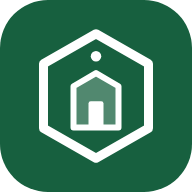
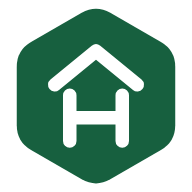
feat(brand): a hexagon mark with an H under a roof, everywhere the brand shows
Sean's new logo: the rounded square is replaced by a green hexagon - the
same cell the hive in the product film is built from - with a minimal H
under a roof. favicon.svg is the one source.

- The tab icon is the hexagon on transparent.
- render-app-icons.mjs now renders every picture of it: the manifest's
  `any` icons, the Apple touch icon (on the canvas colour, since iOS
  fills transparency with black), the maskable icons (hexagon at R 196,
  inside the 40% safe circle, on full-bleed darker green), and a new
  1200x630 og-image.jpg for shared links: the mark, the property's name
  and the building photo. JPEG on purpose: the service worker precaches
  `**/*.png`, and a preview only crawlers fetch should not be downloaded
  by every visitor (checked in the build: 71 precache entries, no og).
- BrandMark.vue draws the mark beside every "Hivelet" wordmark: header,
  mobile menu, footer, category page, inquiry page, sign-in. `inverse`
  (white hexagon, green glyph) on the landing photo and the night footer,
  where the green alone all but disappeared - seen in the running app.

The manifest comment described the old rounded square's geometry and
is rewritten for the hexagon. Checked: vue-tsc, vite build,
check:components, check:labels, check:tokens, check:canon.

diff --git a/frontend/vite.config.ts b/frontend/vite.config.ts
@@ -161,25 +161,22 @@ const config: UserConfig = {
         // own file - not one icon carrying both purposes. A maskable icon
         // needs a full-bleed background (the OS applies its own shape on top
         // and clips everything outside a centred safe zone), while an `any`
-        // icon is drawn as-is with no cropping. `favicon.svg`'s background is
-        // a rounded square (rx 128) with transparent corners: correct for
-        // `any`, but a shape an OS mask could reveal as a transparent gap if
-        // declared `maskable` too - the anti-pattern the previous single
-        // "any maskable" SVG entry was. The house glyph itself already sits
-        // inside the required 40%-radius safe circle (farthest vertex ~166px
-        // from centre on a 512px canvas, against a 204.8px allowance), so the
-        // maskable PNGs reuse the same glyph over a full-bleed square.
+        // icon is drawn as-is with no cropping. `favicon.svg` is the mark on
+        // transparent: a green hexagon (R 244 of 512, the cell the hive in the
+        // product film is built from) with a minimal H under a roof. Correct
+        // for `any`, but its transparent corners are what an OS mask could
+        // reveal as gaps if it were declared `maskable` too. The maskable PNGs
+        // draw the hexagon smaller (R 196, inside the required 40%-radius safe
+        // circle of 204.8px) on a full-bleed darker green square.
         //
         // PNG fallbacks exist alongside the SVG because maskable SVG icon
         // support is inconsistent across Android launchers/WebAPK, and
-        // Lighthouse's installability audit still looks for a PNG. All four
-        // (`frontend/public/icon-*.png` and `maskable-icon-*.png`) were
-        // rasterized from `favicon.svg` ONCE and checked in as static files -
-        // there is no build step that regenerates them. If `favicon.svg`
-        // changes, these four go stale silently; regenerate them by hand (or
-        // script it) at the same time. There is no separate editable source
-        // for the maskable variant beyond the rx-128-to-rx-0 background
-        // change described above.
+        // Lighthouse's installability audit still looks for a PNG. All of them
+        // (`frontend/public/icon-*.png`, `maskable-icon-*.png`,
+        // `apple-touch-icon.png` and `og-image.jpg`) are rendered from
+        // `favicon.svg` by `node video/capture/render-app-icons.mjs` and
+        // checked in; there is no build step that regenerates them, so run it
+        // whenever `favicon.svg` changes or they go stale silently.
         icons: [
           {
             src: '/favicon.svg',

diff --git a/frontend/index.html b/frontend/index.html
@@ -26,8 +26,11 @@
       title, summary and photograph instead of the bare URL. `og:image` needs
       an absolute URL, which needed the production domain (B-62 item 3);
       the site went live on Vercel at hivelet.vercel.app on 2026-09-24
-      (B-66), so it is filled in now. Same photograph as the landing hero,
-      same intrinsic size (vite.config.ts's PWA precache comment).
+      (B-66), so it is filled in now. The picture is og-image.jpg, 1200x630 as
+      Facebook and Messenger crop it: the Hivelet mark, the property's name and
+      the building photo, rendered by video/capture/render-app-icons.mjs. JPEG
+      on purpose, so the service worker's `**/*.png` precache never downloads
+      it for every visitor.
     -->
     <meta name="description" content="Rooms for rent at Fe Galang Da Silva Boarding House, 32 Sapaguita Street, Brgy. 4 Sagpon Old Albay, Legazpi City. See the units and their rates, and send an inquiry to arrange a viewing.">
     <meta property="og:type" content="website">
@@ -35,9 +38,10 @@
     <meta property="og:title" content="Fe Galang Da Silva Boarding House, Legazpi City">
     <meta property="og:description" content="See the units and their rates, and send an inquiry to arrange a viewing.">
     <meta property="og:url" content="https://hivelet.vercel.app/public">
-    <meta property="og:image" content="https://hivelet.vercel.app/fe-galang-building.webp">
-    <meta property="og:image:width" content="1790">
-    <meta property="og:image:height" content="879">
+    <meta property="og:image" content="https://hivelet.vercel.app/og-image.jpg">
+    <meta property="og:image:width" content="1200">
+    <meta property="og:image:height" content="630">
+    <meta property="og:image:alt" content="The Hivelet mark beside the front of the Fe Galang Da Silva Boarding House">
     <meta property="og:locale" content="en_PH">
     <meta name="twitter:card" content="summary_large_image">
     <meta name="apple-mobile-web-app-title" content="Hivelet">

diff --git a/frontend/src/components/ui/BrandMark.vue b/frontend/src/components/ui/BrandMark.vue
@@ -1,0 +1,28 @@
+<!--
+  The Hivelet mark: a green hexagon, the same cell the hive in the product film
+  is built from, with a minimal H under a roof. The same drawing as
+  `public/favicon.svg` (the tab icon) and every installed-app icon rendered from
+  it by `video/capture/render-app-icons.mjs`; change one and change the others.
+
+  Decorative beside the "Hivelet" wordmark, which already names the brand, so it
+  is hidden from assistive technology. Size it with a `size-*` class. `inverse`
+  swaps the colours (white hexagon, green glyph) for a dark background, where
+  the green hexagon alone all but disappears: the landing page's photograph and
+  the night footer.
+-->
+<script setup lang="ts">
+defineProps<{ inverse?: boolean }>();
+</script>
+
+<template>
+  <svg viewBox="0 0 512 512" aria-hidden="true" focusable="false" class="shrink-0">
+    <path
+      :class="inverse ? 'fill-on-brand' : 'fill-brand'"
+      d="M217.89 34 Q256 12 294.11 34 L429.21 112 Q467.31 134 467.31 178 L467.31 334 Q467.31 378 429.21 400 L294.11 478 Q256 500 217.89 478 L82.79 400 Q44.69 378 44.69 334 L44.69 178 Q44.69 134 82.79 112 Z"
+    />
+    <g :class="inverse ? 'stroke-brand' : 'stroke-on-brand'" fill="none" stroke-width="36" stroke-linecap="round" stroke-linejoin="round">
+      <path d="M146 226 L256 136 L366 226" />
+      <path d="M186 254 V376 M326 254 V376 M186 314 H326" />
+    </g>
+  </svg>
+</template>

diff --git a/frontend/src/views/LoginView.vue b/frontend/src/views/LoginView.vue
@@ -8,6 +8,7 @@
 import type { DemoAccount } from '@/lib/demoAccounts.dev';
 import { ref, computed, onMounted } from 'vue';
 import { useRoute, useRouter, RouterLink } from 'vue-router';
+import BrandMark from '@/components/ui/BrandMark.vue';
 import { LogIn, AlertCircle, Loader2, Eye, EyeOff, ArrowLeft } from 'lucide-vue-next';
 import { login, authError, isAuthenticating, homeRouteForRole } from '@/lib/authStore';
 import { showToast, LANDLADY } from '@/lib/systemState';
@@ -202,8 +203,9 @@ async function handleQuickLogin(account: DemoAccount) {
         <div class="flex min-h-16 flex-wrap items-center justify-between gap-x-6">
           <RouterLink
             to="/public"
-            class="press inline-flex min-h-11 items-center font-display text-xl font-semibold tracking-tight text-ink hover:text-ink-soft transition-colors"
+            class="press inline-flex min-h-11 items-center gap-2 font-display text-xl font-semibold tracking-tight text-ink hover:text-ink-soft transition-colors"
           >
+            <BrandMark class="size-7" />
             Hivelet
           </RouterLink>
 

diff --git a/frontend/src/views/CategoryRoomsView.vue b/frontend/src/views/CategoryRoomsView.vue
@@ -60,6 +60,7 @@
  */
 import { ref, reactive, computed, onMounted, watch, nextTick } from 'vue';
 import { useRoute, useRouter } from 'vue-router';
+import BrandMark from '@/components/ui/BrandMark.vue';
 import { peso } from '@/lib/canonicalUnits';
 import { CATEGORIES, resolveSlug, type CategoryKey } from '@/lib/unitCategories';
 import AvailabilityUnavailable from '@/components/public/AvailabilityUnavailable.vue';
@@ -552,8 +553,9 @@ async function submitInquiry() {
       <div class="ws-page min-h-16 flex items-center justify-between gap-6 sm:gap-10">
         <RouterLink
           to="/public"
-          class="press inline-flex min-h-11 shrink-0 items-center font-display text-xl font-semibold tracking-tight text-ink hover:text-ink-soft transition-colors"
+          class="press inline-flex min-h-11 shrink-0 items-center gap-2 font-display text-xl font-semibold tracking-tight text-ink hover:text-ink-soft transition-colors"
         >
+          <BrandMark class="size-7" />
           Hivelet
         </RouterLink>
 

diff --git a/frontend/src/views/InquireView.vue b/frontend/src/views/InquireView.vue
@@ -18,6 +18,7 @@
 import { ref, reactive, nextTick } from 'vue';
 import { Loader2, ArrowLeft, AlertCircle } from 'lucide-vue-next';
 import { LANDLADY } from '@/lib/systemState';
+import BrandMark from '@/components/ui/BrandMark.vue';
 import { api } from '@/lib/api';
 import {
   validateInquiry,
@@ -211,8 +212,9 @@ async function submitInquiry() {
         <div class="flex min-h-16 flex-wrap items-center justify-between gap-x-6">
           <RouterLink
             to="/public"
-            class="press inline-flex min-h-11 items-center font-display text-xl font-semibold tracking-tight text-ink hover:text-ink-soft transition-colors"
+            class="press inline-flex min-h-11 items-center gap-2 font-display text-xl font-semibold tracking-tight text-ink hover:text-ink-soft transition-colors"
           >
+            <BrandMark class="size-7" />
             Hivelet
           </RouterLink>
 

diff --git a/frontend/src/components/layout/AppHeader.vue b/frontend/src/components/layout/AppHeader.vue
@@ -12,6 +12,7 @@
 import { ref, computed, watch, onMounted, onUnmounted } from 'vue';
 import { useRoute, useRouter } from 'vue-router';
 import { isMobileSidebarOpen } from '@/lib/systemState';
+import BrandMark from '@/components/ui/BrandMark.vue';
 import { 
   currentUser, 
   isAuthenticated, 
@@ -323,6 +324,7 @@ onUnmounted(() => {
           the box around the text moves nothing on screen.
         -->
         <router-link :to="brandRoute" class="press flex min-h-11 items-center gap-2 group">
+          <BrandMark class="size-7" :inverse="isLandingPage" />
           <span
             class="font-display font-semibold text-xl tracking-tight transition-colors"
             :class="isLandingPage ? 'text-white drop-shadow-sm group-hover:text-white/80' : 'text-ink group-hover:text-brand'"

diff --git a/frontend/src/components/layout/AppSidebar.vue b/frontend/src/components/layout/AppSidebar.vue
@@ -8,6 +8,7 @@
  */
 import { computed, ref, watch, onBeforeUnmount } from 'vue';
 import { useRoute } from 'vue-router';
+import BrandMark from '@/components/ui/BrandMark.vue';
 import {
   isMobileSidebarOpen,
   inquiries,
@@ -376,7 +377,8 @@ onBeforeUnmount(() => {
           >
             <div class="space-y-6">
               <div class="flex items-center justify-between pb-4 border-b border-line">
-                <div>
+                <div class="flex items-center gap-2">
+                  <BrandMark class="size-6" />
                   <span class="font-display text-base font-semibold tracking-tight text-ink">Hivelet</span>
                 </div>
                 <button 

diff --git a/frontend/src/components/layout/AppFooter.vue b/frontend/src/components/layout/AppFooter.vue
@@ -15,6 +15,7 @@
  */
 import { computed } from 'vue';
 import { LANDLADY } from '@/lib/systemState';
+import BrandMark from '@/components/ui/BrandMark.vue';
 import { isAuthenticated, isAdmin, isTenant } from '@/lib/authStore';
 
 const portalRoute = computed(() => {
@@ -39,7 +40,7 @@ const portalRoute = computed(() => {
             sentence now, where it belongs, and the copyright line below
             already carries both.
           -->
-          <p class="text-xl font-semibold tracking-tight">Hivelet</p>
+          <p class="flex items-center gap-2.5 text-xl font-semibold tracking-tight"><BrandMark class="size-8" inverse />Hivelet</p>
         </div>
 
         <div>

diff --git a/HANDOFF_TO_DESIGN.md b/HANDOFF_TO_DESIGN.md
@@ -8,6 +8,13 @@ Bicol University Group 4 for IT 124 Capstone Project 2. The owner, Mrs. Fe Galan
 her books in it. **The database is live**: 937 income rows, 1,327 expense allocations, 33 units
 with 32 occupied. There is no staging copy.
 
+**New mark, 2026-09-29 (Sean's decision).** The logo is now a green hexagon with a minimal H under
+a roof. `frontend/public/favicon.svg` is the one source; `components/ui/BrandMark.vue` draws it
+beside every "Hivelet" wordmark (`inverse` on the landing photo and the night footer); and
+`node video/capture/render-app-icons.mjs` renders the tab, install, Apple and maskable icons and the
+link-preview `og-image.jpg` from it. Change the SVG and rerun the script, or the PNGs go stale
+silently.
+
 ---
 
 ## 1. Your remit, and its edges
